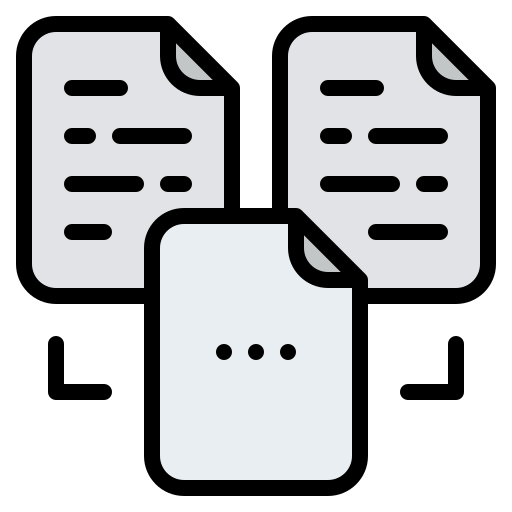
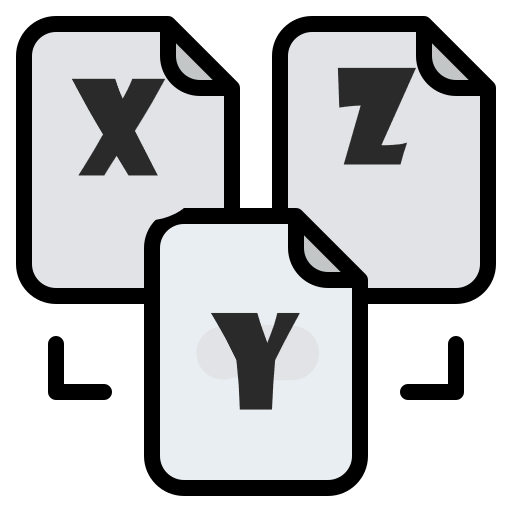
More change

diff --git a/virtus/src/app/pages/resourcesar/resourcesar.component.html b/virtus/src/app/pages/resourcesar/resourcesar.component.html
@@ -303,7 +303,15 @@
   <p-dialog [(visible)]="vieweRemoteUrl" [style]="{width: '1000px', height: '600px'}" header="Visualizar recurso remoto"
             [modal]="true"
             class="p-fluid">
+    <a [href]="urlSafe" target="_blank">
+      <button pbutton="" pripple="" type="button"
+              icon="pi pi-search"
+              class="p-element p-ripple p-button-rounded p-button-success mr-2 mb-2 p-button p-component p-button-icon-only">
+        <span class="p-button-icon pi pi-search" aria-hidden="true"></span>
+      </button>
+    </a>
     <iframe width="100%" height="100%" frameBorder="0" [src]="urlSafe"></iframe>
+
   </p-dialog>
 
   <p-scrollTop target="window" styleClass="custom-scrolltop" [threshold]="100" icon="pi pi-arrow-up"></p-scrollTop>
